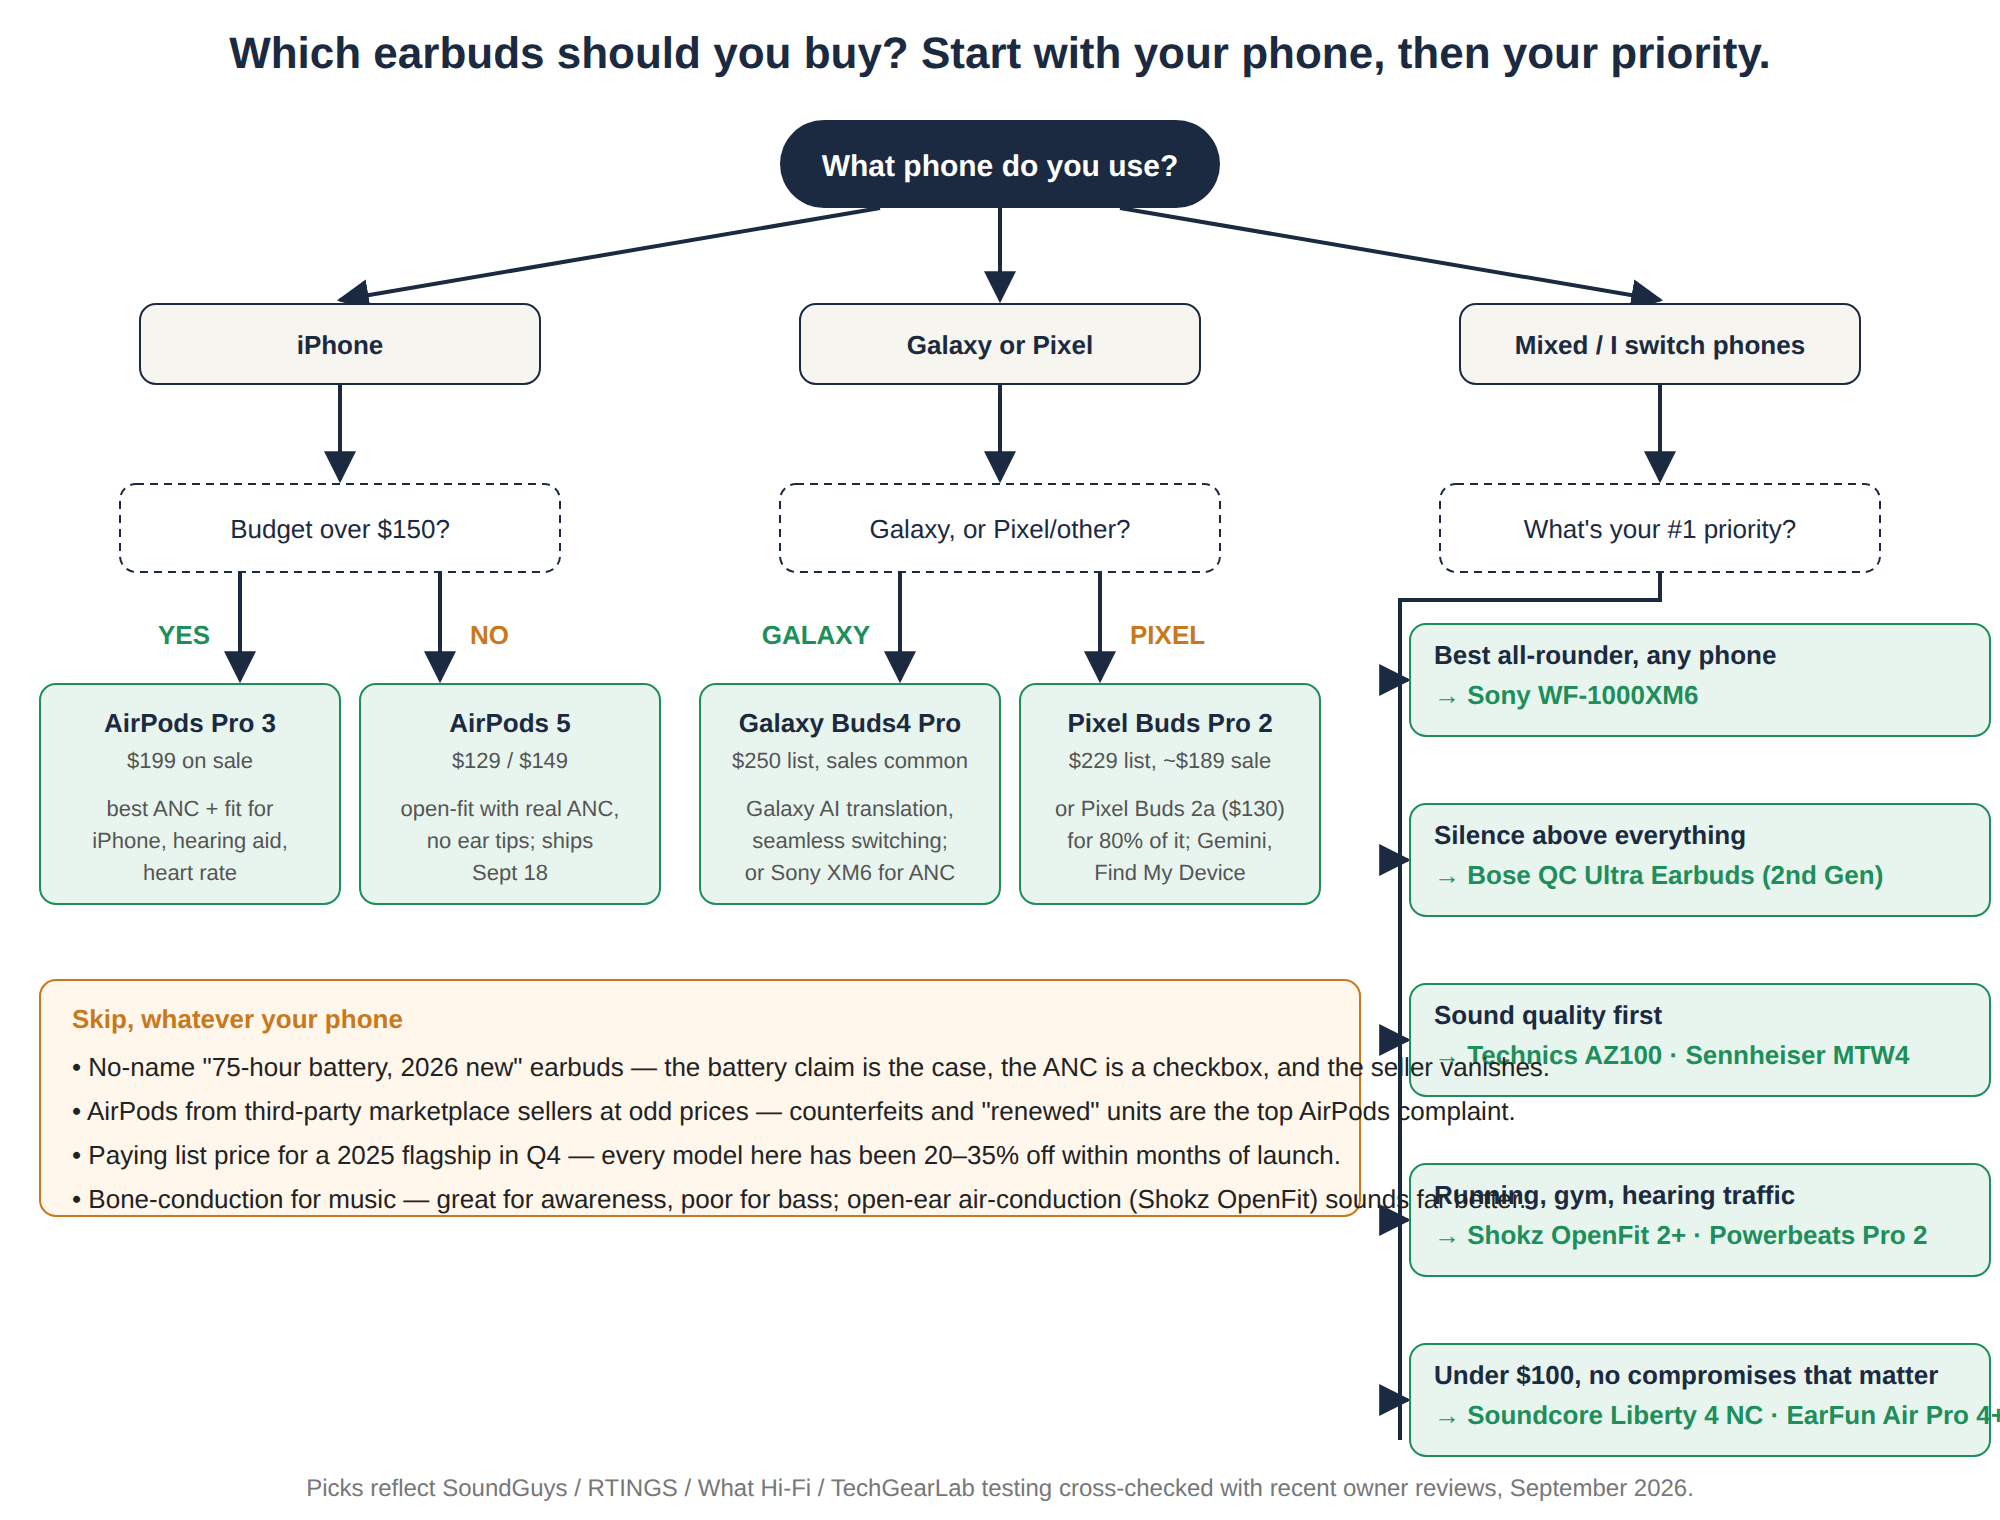
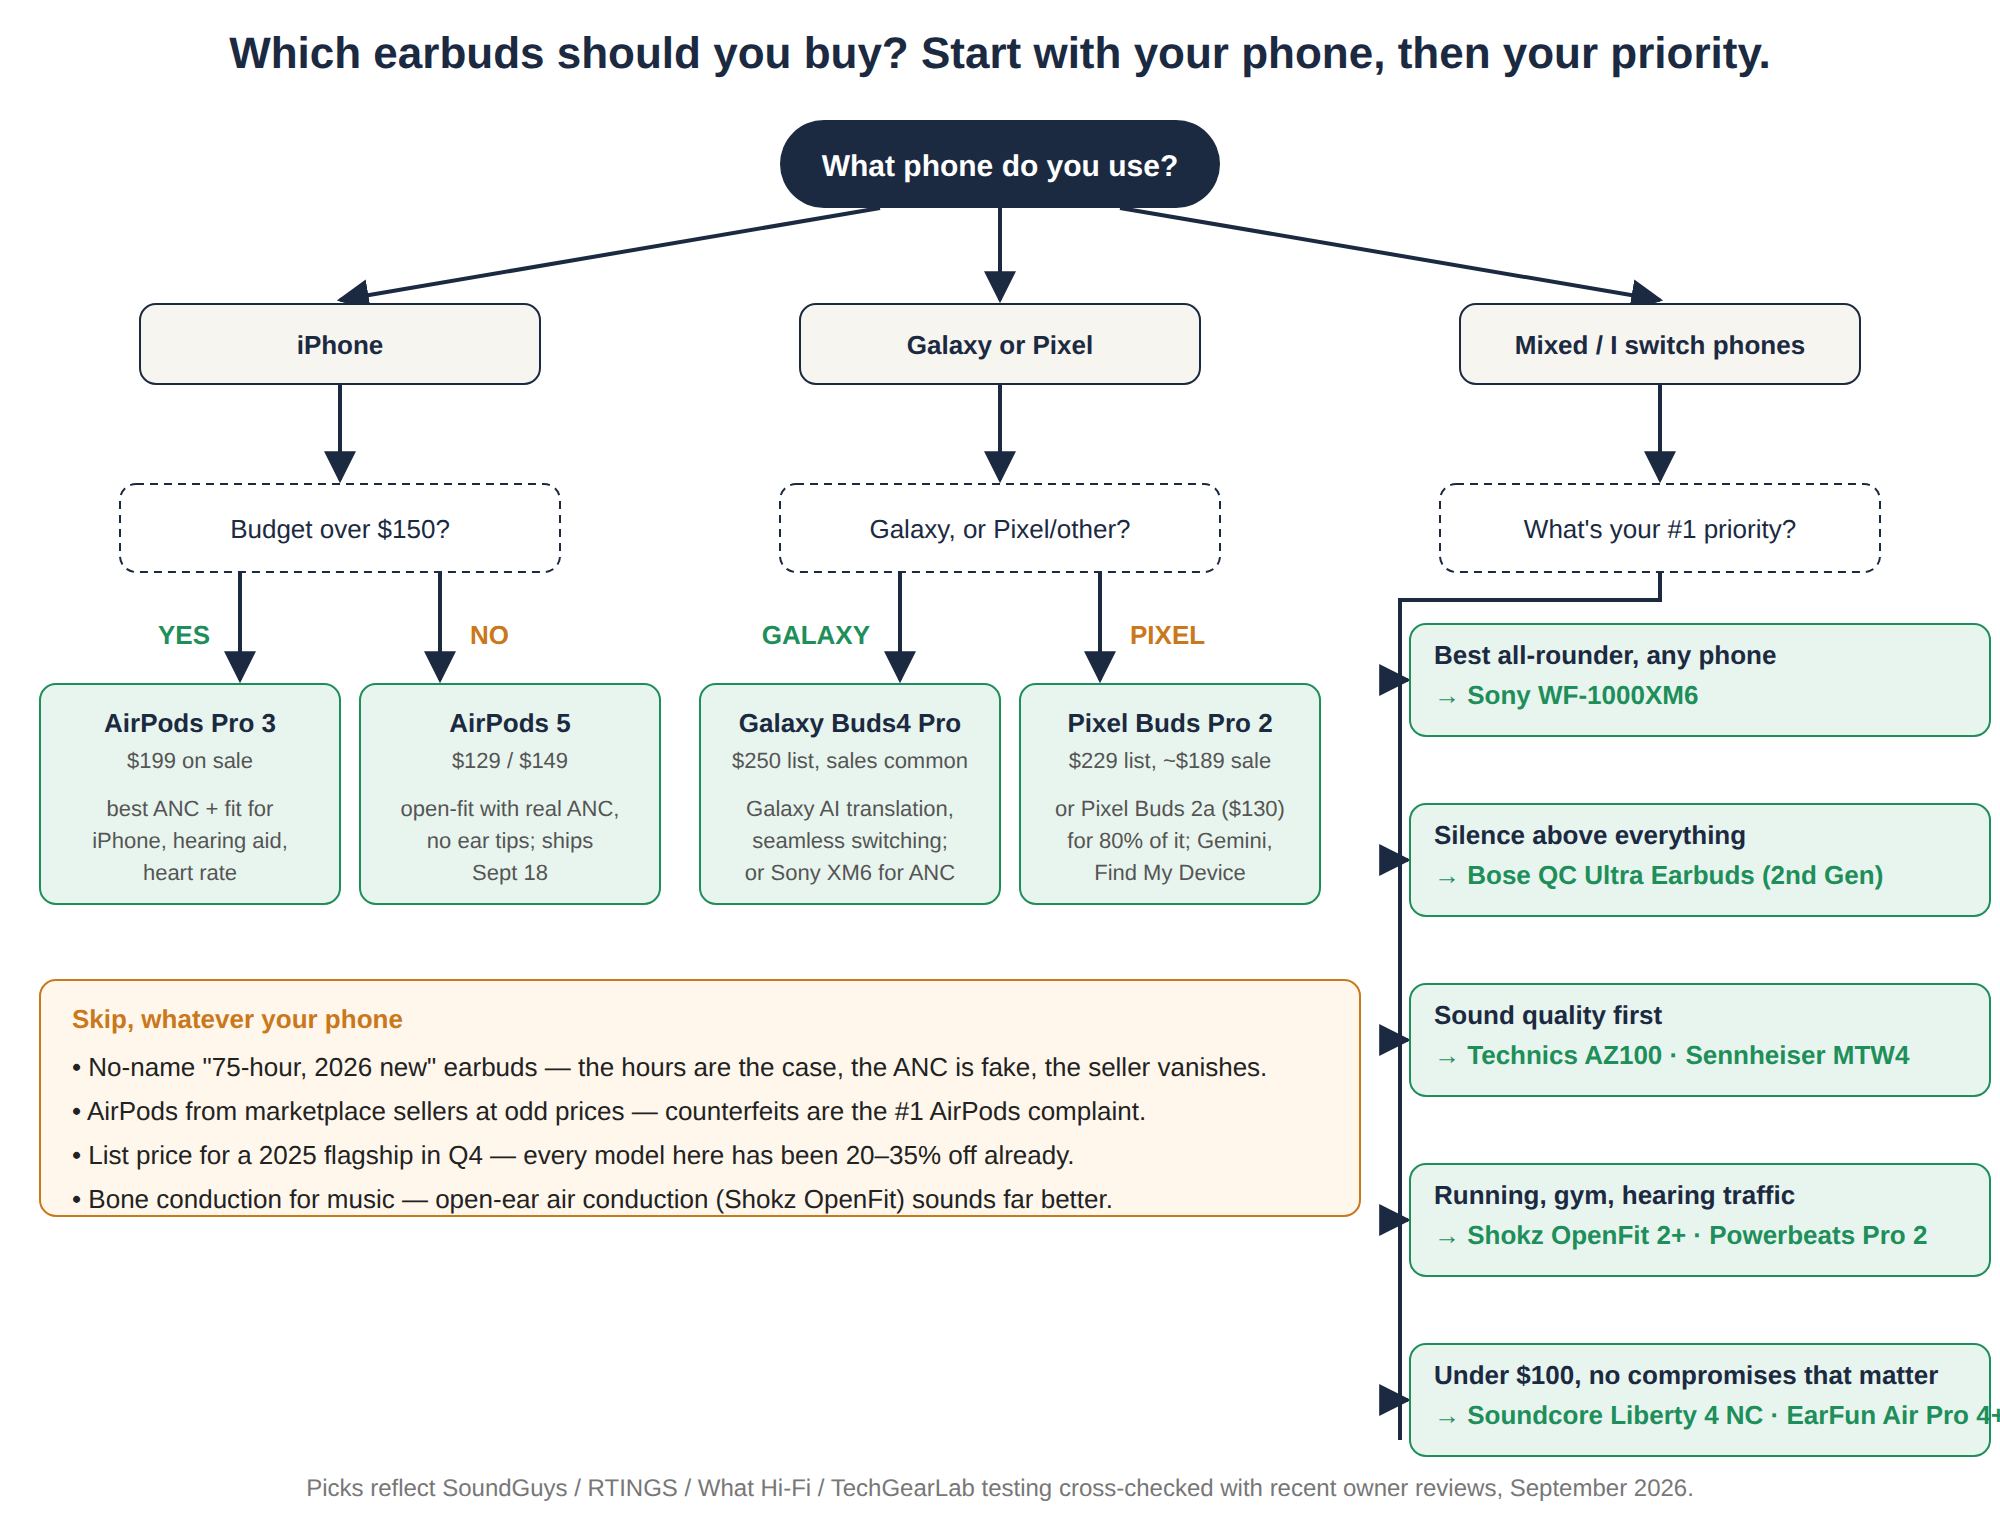
Fix clipped labels and overflowing text in the earbuds guide graphics
Claude-Session: https://claude.ai/code/session_01GujuvmoSnA4z2t9mXJQtVa

Changed region(s): [[0.031, 0.6803, 0.775, 0.8039]]

diff --git a/posts/2026-09-best-wireless-earbuds/post.html b/posts/2026-09-best-wireless-earbuds/post.html
@@ -126,7 +126,7 @@
 <rect x="30" y="460" width="940" height="140" rx="10" fill="#F7F5F0"/>
 <g font-size="13" fill="#222">
 <text x="50" y="488" font-weight="700" fill="#1B2A41">What you lose off-platform</text>
-<text x="50" y="512">• AirPods on Android: no Adaptive Audio, no Conversation Awareness, no hearing-health features, no Find My, no fit test, no firmware updates without an Apple device.</text>
+<text x="50" y="512">• AirPods on Android: no Adaptive Audio, Conversation Awareness, hearing features, Find My, fit test, or firmware updates.</text>
 <text x="50" y="534">• Galaxy Buds on iPhone: no app at all — no ANC adjustment, no EQ, no 360 Audio, no Galaxy AI translation.</text>
 <text x="50" y="556">• Pixel Buds on iPhone: no app, no Gemini, no Find My Device. On Galaxy: works, minus some Pixel-only tricks.</text>
 <text x="50" y="578">• Sony, Bose, Technics, Sennheiser, Nothing, Soundcore, EarFun: the same app and features on every phone — the safe choice if you switch platforms.</text>
@@ -146,13 +146,13 @@
 <g stroke="#eee"><line x1="360" y1="72" x2="360" y2="560"/><line x1="480" y1="72" x2="480" y2="560"/><line x1="600" y1="72" x2="600" y2="560"/><line x1="720" y1="72" x2="720" y2="560"/><line x1="840" y1="72" x2="840" y2="560"/></g>
 <!-- scale: 60px per hour, x0=240 -->
 <g font-size="13" fill="#1B2A41">
-<text x="30" y="96">Shokz OpenFit 2+ (open-ear, no ANC)</text><rect x="240" y="82" width="660" height="20" fill="#C9D1DC"/><text x="908" y="97" font-size="12">11h</text>
+<text x="30" y="96">Shokz OpenFit 2+ (open-ear)</text><rect x="240" y="82" width="660" height="20" fill="#C9D1DC"/><text x="908" y="97" font-size="12">11h</text>
 <text x="30" y="132">Sony WF-1000XM6</text><rect x="240" y="118" width="480" height="20" fill="#1E8E5A"/><text x="728" y="133" font-size="12">8h (9h41m measured by SoundGuys)</text>
 <text x="30" y="168">AirPods Pro 3</text><rect x="240" y="154" width="480" height="20" fill="#1E8E5A"/><text x="728" y="169" font-size="12">8h</text>
 <text x="30" y="204">Pixel Buds Pro 2</text><rect x="240" y="190" width="480" height="20" fill="#4FA37B"/><text x="728" y="205" font-size="12">8h</text>
 <text x="30" y="240">Beats Powerbeats Pro 2</text><rect x="240" y="226" width="480" height="20" fill="#4FA37B"/><text x="728" y="241" font-size="12">8h</text>
 <text x="30" y="276">Soundcore Liberty 4 NC</text><rect x="240" y="262" width="480" height="20" fill="#4FA37B"/><text x="728" y="277" font-size="12">8h</text>
-<text x="30" y="312">Technics AZ100 · Sennheiser MTW4</text><rect x="240" y="298" width="450" height="20" fill="#8FB8DE"/><text x="698" y="313" font-size="12">7.5h</text>
+<text x="30" y="312">Technics AZ100 · Sennheiser</text><rect x="240" y="298" width="450" height="20" fill="#8FB8DE"/><text x="698" y="313" font-size="12">7.5h</text>
 <text x="30" y="348">Pixel Buds 2a</text><rect x="240" y="334" width="420" height="20" fill="#8FB8DE"/><text x="668" y="349" font-size="12">7h</text>
 <text x="30" y="384">Galaxy Buds4 Pro</text><rect x="240" y="370" width="360" height="20" fill="#E0A24A"/><text x="608" y="385" font-size="12">6h (4.5–5h with every feature on)</text>
 <text x="30" y="420">Bose QC Ultra Earbuds (2nd Gen)</text><rect x="240" y="406" width="360" height="20" fill="#E0A24A"/><text x="608" y="421" font-size="12">6h</text>
@@ -162,7 +162,7 @@
 </g>
 <rect x="30" y="570" width="940" height="56" rx="8" fill="#F7F5F0"/>
 <text x="50" y="592" font-size="13" fill="#1B2A41" font-weight="700">ANC tiers in 2026 lab testing:</text>
-<text x="50" y="612" font-size="13" fill="#222">Tier 1 — Bose QC Ultra 2, Sony XM6, AirPods Pro 3  ·  Tier 2 — Galaxy Buds4 Pro, Pixel Buds Pro 2/2a, Technics AZ100  ·  Tier 3 — Nothing Ear (3), Sennheiser MTW4, Liberty 4 NC, EarFun  ·  Open-fit — AirPods 5 (best of its kind)</text>
+<text x="50" y="612" font-size="12" fill="#222">Tier 1 — Bose QC Ultra 2, Sony XM6, AirPods Pro 3 · Tier 2 — Galaxy Buds4 Pro, Pixel Buds Pro 2/2a, Technics AZ100 · Tier 3 — Nothing Ear (3), Sennheiser, Liberty 4 NC, EarFun · Open-fit — AirPods 5</text>
 <text x="970" y="636" text-anchor="end" font-size="11" fill="#777">Claims from manufacturer spec sheets; measured figures noted. Expect 60–70% of these numbers by year two.</text>
 </g>
 </svg><div class="vp-source" style="font-size:13px;color:#555;margin-top:6px;">ANC-on runtime per charge, from manufacturer spec sheets, with SoundGuys' measured figure for the Sony XM6.</div></div>
@@ -206,7 +206,7 @@
 <text x="618" y="98" text-anchor="middle" font-size="16" font-weight="700" fill="#1B2A41">$130 – $250</text>
 <text x="518" y="140" font-weight="700" fill="#1E8E5A">You get</text><text x="518" y="160">• Near-flagship ANC &amp; sound</text><text x="518" y="178">• Ecosystem features</text><text x="518" y="196">• Heart rate, translation</text><text x="518" y="214">• 8h ANC-on battery</text>
 <text x="518" y="248" font-weight="700" fill="#C9781B">You give up</text><text x="518" y="268">• The last 10% of ANC</text><text x="518" y="286">• Audiophile tuning</text>
-<text x="518" y="340" fill="#555">Picks: AirPods Pro 3 ($199 sale),</text><text x="518" y="358" fill="#555">Pixel Buds Pro 2, Galaxy</text><text x="518" y="376" fill="#555">Buds4 Pro, Nothing Ear (3),</text><text x="518" y="394" fill="#555">Powerbeats Pro 2, Shokz OpenFit 2+</text>
+<text x="518" y="340" fill="#555">Picks: AirPods Pro 3 ($199 sale),</text><text x="518" y="358" fill="#555">Pixel Buds Pro 2, Galaxy</text><text x="518" y="376" fill="#555">Buds4 Pro, Nothing Ear (3),</text><text x="518" y="394" fill="#555">Powerbeats Pro 2, Shokz OpenFit</text>
 <rect x="744" y="70" width="225" height="440" rx="10" fill="#F7F5F0" stroke="#ddd"/><rect x="744" y="70" width="225" height="44" rx="10" fill="#1E8E5A"/>
 <text x="856" y="98" text-anchor="middle" font-size="16" font-weight="700" fill="#fff">$250 – $330</text>
 <text x="756" y="140" font-weight="700" fill="#1E8E5A">You get</text><text x="756" y="160">• Best ANC on earth (Bose)</text><text x="756" y="178">• Best all-rounder (Sony)</text><text x="756" y="196">• Audiophile sound (Technics,</text><text x="756" y="214">  Sennheiser)</text>
@@ -644,10 +644,10 @@
 <rect x="705" y="672" width="290" height="56" rx="8" fill="#E8F5EE" stroke="#1E8E5A"/><text x="717" y="692" font-weight="700" fill="#1B2A41">Under $100, no compromises that matter</text><text x="717" y="712" fill="#1E8E5A" font-weight="700">→ Soundcore Liberty 4 NC · EarFun Air Pro 4+</text>
 <rect x="20" y="490" width="660" height="118" rx="8" fill="#FFF7EC" stroke="#C9781B"/>
 <text x="36" y="514" font-weight="700" fill="#C9781B">Skip, whatever your phone</text>
-<text x="36" y="538" fill="#222">• No-name "75-hour battery, 2026 new" earbuds — the battery claim is the case, the ANC is a checkbox, and the seller vanishes.</text>
-<text x="36" y="560" fill="#222">• AirPods from third-party marketplace sellers at odd prices — counterfeits and "renewed" units are the top AirPods complaint.</text>
-<text x="36" y="582" fill="#222">• Paying list price for a 2025 flagship in Q4 — every model here has been 20–35% off within months of launch.</text>
-<text x="36" y="604" fill="#222">• Bone-conduction for music — great for awareness, poor for bass; open-ear air-conduction (Shokz OpenFit) sounds far better.</text>
+<text x="36" y="538" fill="#222">• No-name "75-hour, 2026 new" earbuds — the hours are the case, the ANC is fake, the seller vanishes.</text>
+<text x="36" y="560" fill="#222">• AirPods from marketplace sellers at odd prices — counterfeits are the #1 AirPods complaint.</text>
+<text x="36" y="582" fill="#222">• List price for a 2025 flagship in Q4 — every model here has been 20–35% off already.</text>
+<text x="36" y="604" fill="#222">• Bone conduction for music — open-ear air conduction (Shokz OpenFit) sounds far better.</text>
 <text x="500" y="748" text-anchor="middle" font-size="12" fill="#777">Picks reflect SoundGuys / RTINGS / What Hi-Fi / TechGearLab testing cross-checked with recent owner reviews, September 2026.</text>
 </g>
 </svg><div class="vp-source" style="font-size:13px;color:#555;margin-top:6px;">Picks reflect SoundGuys / RTINGS / What Hi-Fi / TechGearLab testing cross-checked with recent owner reviews, September 2026.</div></div>
